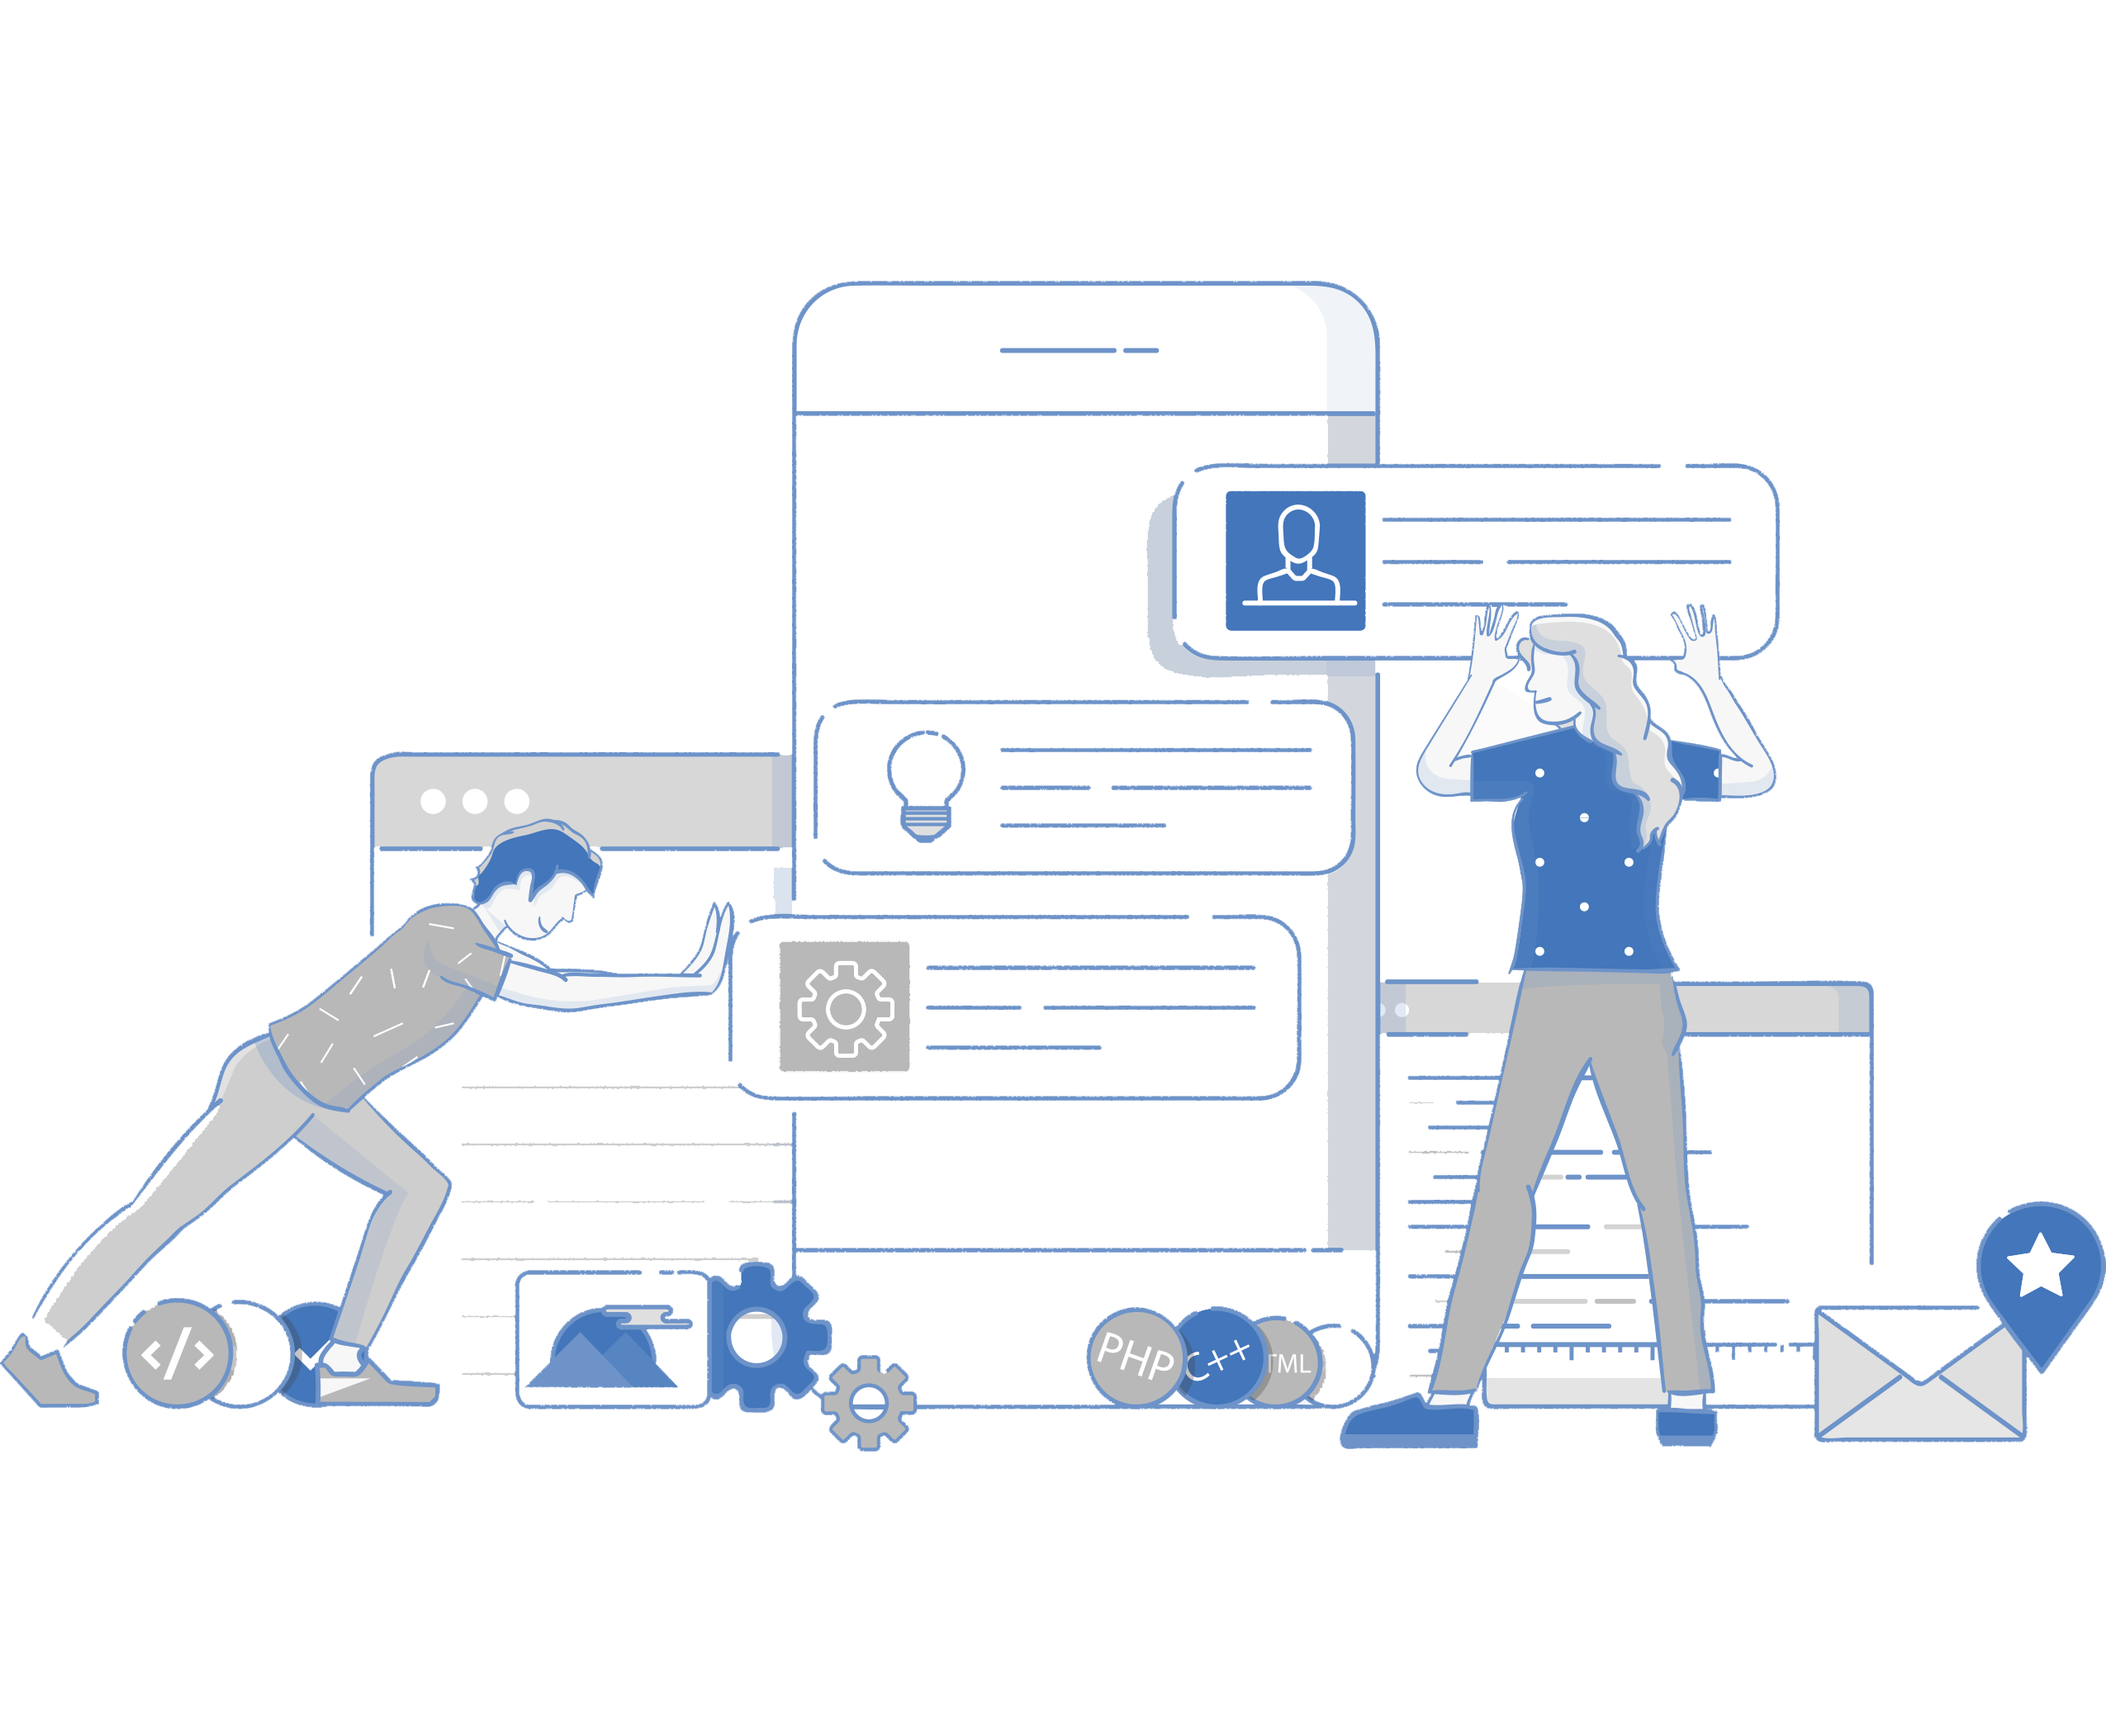
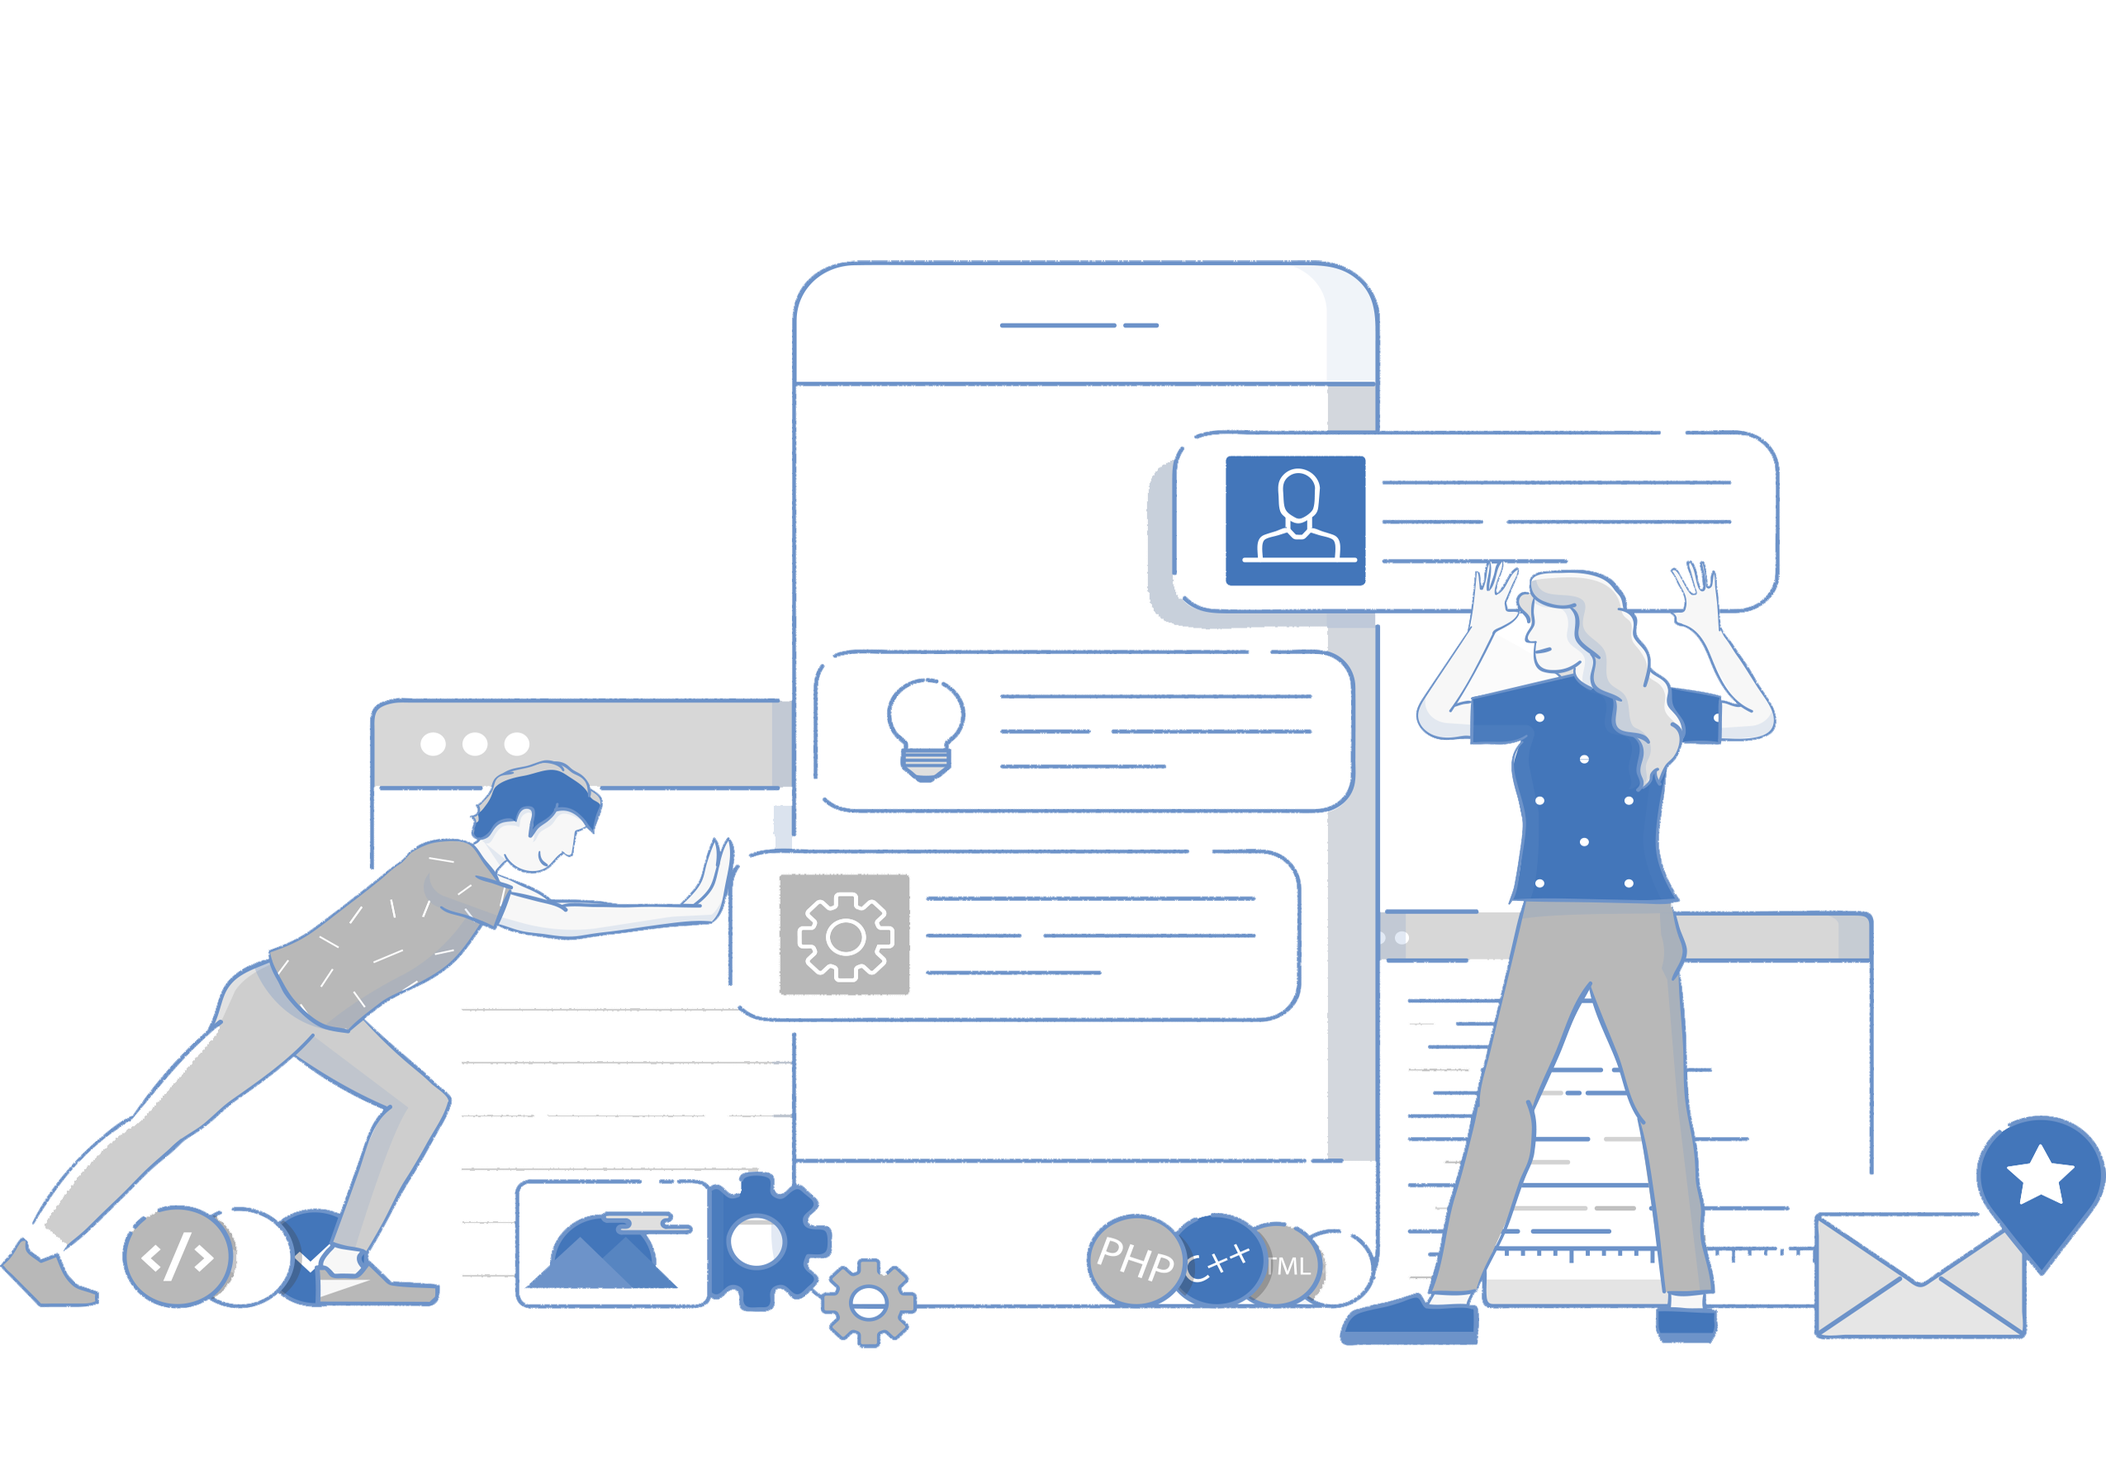
slidershow responsive, working on navbar and other sections

Changed region(s): [[0.0, 0.1556, 1.0, 0.9338]]

diff --git a/src/components/home/slider/slider.component.js b/src/components/home/slider/slider.component.js
@@ -16,7 +16,8 @@ import sliderImage4 from '../../../../public/images/slider4.png';
 class SlidShow extends Component {
 
     // check the next and prev buttoms 
-    render = () => {
+    render = () => { 
+
         let card1 = {
             slideParagraph: 'Vinet es el socio tecnológico para potenciar la transformación digital, en su compañía.', 
             btnText: 'Sucsess Team', 
@@ -33,10 +34,10 @@ class SlidShow extends Component {
             slideParagraph: 'Experiencia para entregar tecnología segura, escalable y sorprendente.', 
             btnText: 'Tecnologías', 
             sliderImage: sliderImage3, 
-            linkTo: '/'
+            linkTo: '/tech'
         }
         let card4 = {
-            slideParagraph: 'Planificamos, diseñamos e implementamos soluciones sostenibles para la Era digital.', 
+            slideParagraph: 'Planificamos, diseñamos e implementamos soluciones sostenibles para la era digital.', 
             btnText: 'Experiencia', 
             sliderImage: sliderImage4,
             linkTo: '/'
@@ -48,11 +49,11 @@ class SlidShow extends Component {
             speed: 500,
             slidesToShow: 1,
             slidesToScroll: 1,
-            // arrows: true, 
+            arrows: false,
             // autoplay: true,  /*properties for autoplay slideshow, uncomment until work´is fine*/
             // speed: 2000,
-            // autoplaySpeed: 5000,
-            pauseOnHover: true,
+            // autoplaySpeed: 2000,
+            // pauseOnHover: true,
             responsive: [
                 {
                   breakpoint: 1024,
@@ -61,7 +62,6 @@ class SlidShow extends Component {
                     slidesToScroll: 1,
                     infinite: true,
                     dots: true, 
-                    //arrows: true
                   }
                 },
                 {
@@ -70,7 +70,6 @@ class SlidShow extends Component {
                     slidesToShow: 1,
                     slidesToScroll: 1,
                     initialSlide: 1, 
-                    //arrows: true
                   }
                 },
                 {
@@ -78,7 +77,6 @@ class SlidShow extends Component {
                   settings: {
                     slidesToShow: 1,
                     slidesToScroll: 1, 
-                    //arrows: true
                   }
                 }
               ]
@@ -86,7 +84,7 @@ class SlidShow extends Component {
           
         return (
  
-            <Slider className="slide" {...settings}>
+            <Slider {...settings}>
             <div>
                 <Card card={card1}/>
             </div>

diff --git a/src/components/home/slider/cards/card.style.scss b/src/components/home/slider/cards/card.style.scss
@@ -1,10 +1,11 @@
 
 .cardContainer{
-  height: 80vh;
+  height: 85vh;
   
   .buttomContainer{
     flex-basis: 30%;
     margin: auto;
+    flex-flow: row wrap;
     // align-content: center;
     .btn{
           background-color: #3e6aaf; 
@@ -24,7 +25,8 @@
           max-height: auto;
           text-align: left; 
           text-decoration: none;
-          width: 40vh; 
+          text-align: center;
+          width: 25vw; 
           font-size: 1em;
           color: #3e6aaf;
       }
@@ -39,10 +41,65 @@
       width:  auto;
       height: auto; 
       position: absolute;
-      // z-index: 1;
+      }
     }
+      /* Medium screens */
+      @media all and (max-width: 800px) {
+        .cardContainer{
+          height: 120vh;
+        }
+      }
+      @media all and (max-width: 800px) {
+        .imageContainer{
+          flex-basis: 80% !important;
+          align-content: center;
+          position: relative;
+        }
+      }
+      @media all and (max-width: 800px) {
+        .buttomContainer{
+          flex-basis: 20%;
+          align-content: center;
+          margin: auto;
+        }
+
+      }
+      @media all and (max-width: 800px) {
+        .textInfo{
+          width: 90vw !important; 
+          font-size: 1em;
+      }
+      }
+      @media all and (max-width: 800px) {
+        .slideImage{
+          max-width: 75%;
+          width:  auto;
+          height: 45vh !important; 
+          left: 25px;
+          bottom: 9px;
+        }
+      }
+        /* Small screens */
+        @media all and (max-width: 500px) {
+          .cardContainer{
+            height: 80vh;
+          }
+        }
+        @media all and (max-width: 500px) {
+          .imageContainer{
+            flex-basis: 47% !important;
+            align-content: center;
+            position: relative;
+
+          }
+        }
+        @media all and (max-width: 500px) {
+          .buttomContainer{
+            flex-basis: 40%;
+            align-content: center;
+            margin-bottom: 0px;
+          }
+        }
   }
-}
-/*NO OLVIDAR DARLE SEGUIMIENTO A ESTO..... TRABAJANDO RESPONSIVE DEL SLIDESHOW, TTRABAJANDO EN LOS BOTTOMS Y Z-INDEX*/
 
 

diff --git a/src/components/navbar/NavBar.style.scss b/src/components/navbar/NavBar.style.scss
@@ -1,16 +1,30 @@
 .topnav {
-    overflow: hidden;
-    background-color: white;
+  list-style: none;
+  margin: 0; 
+  
+  background: white;
+  
+  display: -webkit-box;
+  display: -moz-box;
+  display: -ms-flexbox;
+  display: -webkit-flex;
+  display: flex;
+  
+  -webkit-flex-flow: row wrap;
+  justify-content: flex-end;
   }
   
   .topnav .linkTo {
-    float: right;
     color: black;
     text-align: center;
-    padding: 14px 16px;
     text-decoration: none;
     font-size: 17px;
     margin-top: 5px;
+
+    text-decoration: none;
+    display: block;
+    padding: 1em;
+    // color: white;
   }
   
   .topnav .linkTo:hover {
@@ -24,8 +38,35 @@
     color: white;
   } 
 
-  .logoView {
+  .menuLogo {
     width: 100px;
     height: 80px; 
-    float: left;
   }
+
+  .logoContainer{
+    float: left; 
+
+  } 
+
+  
+@media all and (max-width: 800px) {
+  .topnav {
+    justify-content: space-around;
+  }
+}
+
+@media all and (max-width: 600px) {
+  .topnav {
+    -webkit-flex-flow: column wrap;
+    flex-flow: column wrap;
+    padding: 0;
+  }
+  
+  .topnav .linkTo{ 
+    text-align: center; 
+    padding: 10px;
+    border-top: 1px solid rgba(255,255,255,0.3); 
+    border-bottom: 1px solid rgba(0,0,0,0.1); 
+  }
+
+}

diff --git a/src/components/navbar/NavBar.style.css b/src/components/navbar/NavBar.style.css
@@ -1,15 +1,24 @@
 .topnav {
-  overflow: hidden;
-  background-color: white; }
+  list-style: none;
+  margin: 0;
+  background: white;
+  display: -webkit-box;
+  display: -moz-box;
+  display: -ms-flexbox;
+  display: -webkit-flex;
+  display: flex;
+  -webkit-flex-flow: row wrap;
+  justify-content: flex-end; }
 
 .topnav .linkTo {
-  float: right;
   color: black;
   text-align: center;
-  padding: 14px 16px;
   text-decoration: none;
   font-size: 17px;
-  margin-top: 5px; }
+  margin-top: 5px;
+  text-decoration: none;
+  display: block;
+  padding: 1em; }
 
 .topnav .linkTo:hover {
   text-decoration: underline;
@@ -19,7 +28,24 @@
   background-color: #f0c936;
   color: white; }
 
-.logoView {
+.menuLogo {
   width: 100px;
-  height: 80px;
+  height: 80px; }
+
+.logoContainer {
   float: left; }
+
+@media all and (max-width: 800px) {
+  .topnav {
+    justify-content: space-around; } }
+
+@media all and (max-width: 600px) {
+  .topnav {
+    -webkit-flex-flow: column wrap;
+    flex-flow: column wrap;
+    padding: 0; }
+  .topnav .linkTo {
+    text-align: center;
+    padding: 10px;
+    border-top: 1px solid rgba(255, 255, 255, 0.3);
+    border-bottom: 1px solid rgba(0, 0, 0, 0.1); } }

diff --git a/src/components/home/slider/cards/card.component.js b/src/components/home/slider/cards/card.component.js
@@ -13,14 +13,14 @@ class Card extends Component {
   render() {
     return (
       <div>
-        <Row className="cardContainer">
-          <Column onMedium="column" onSmall="column" alignItems='center' className="buttomContainer">
+        <Row onSmall='column' onMedium='column' className="cardContainer">
+          <Column onMedium="row" onSmall="row" alignItems='center' className="buttomContainer">
            <div>
               <p  className="textInfo">{ this.props.card.slideParagraph }</p>
               <a href= { this.props.card.linkTo }  className="btn">{ this.props.card.btnText }</a>
            </div>
           </Column>
-          <Column alignItems='center'className="imageContainer">
+          <Column onMedium="row" onSmall="row" alignItems='center'className="imageContainer">
               <img alt="slideImage" className="slideImage" src={ this.props.card.sliderImage }/>
           </Column>
         </Row>

diff --git a/src/components/navbar/NavBar.component.js b/src/components/navbar/NavBar.component.js
@@ -18,11 +18,10 @@ class NavBar extends Component {
         return (
             <Router>
                 <div className="topnav">
-                    <div>
+                    <div className="logoContainer">
                         <Link to="/">
-                            <img  alt="logo" src={Logo} className="logoView"></img>
+                            <img  alt="logo" src={Logo} className="menuLogo"></img>
                         </Link>
-
                     </div>
                     <a className="linkTo" >Contácto</a>
                     <a className="linkTo" >Experiencia</a>

diff --git a/src/components/home/slider/slider.style.scss b/src/components/home/slider/slider.style.scss
@@ -13,7 +13,7 @@
 }
 
 .slide{
-  width: 99vw;
+  width: 95vw;
 }
 /*
 
